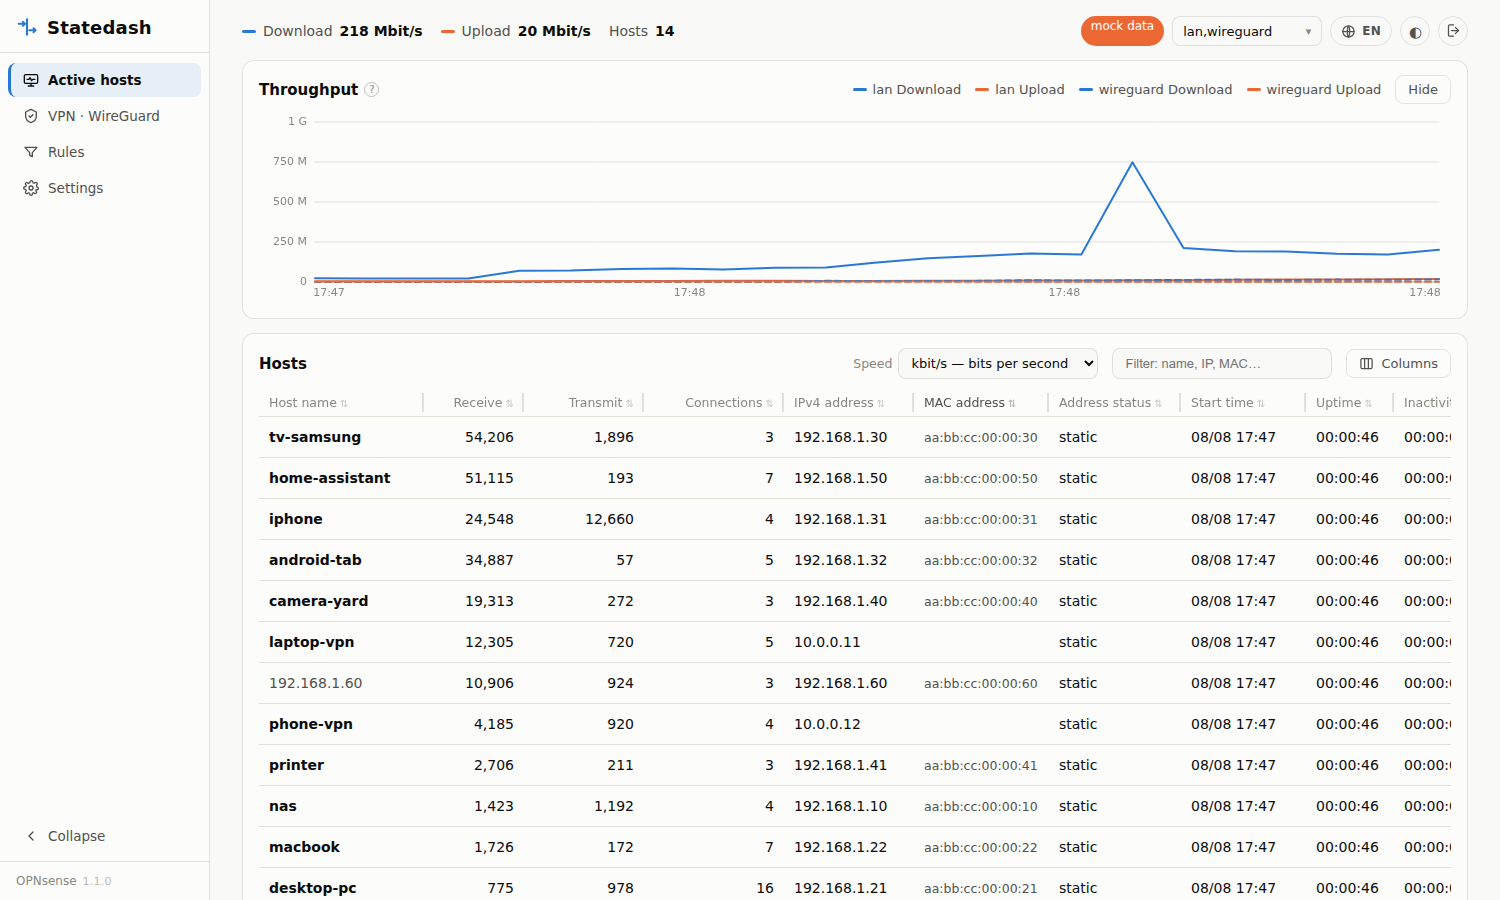
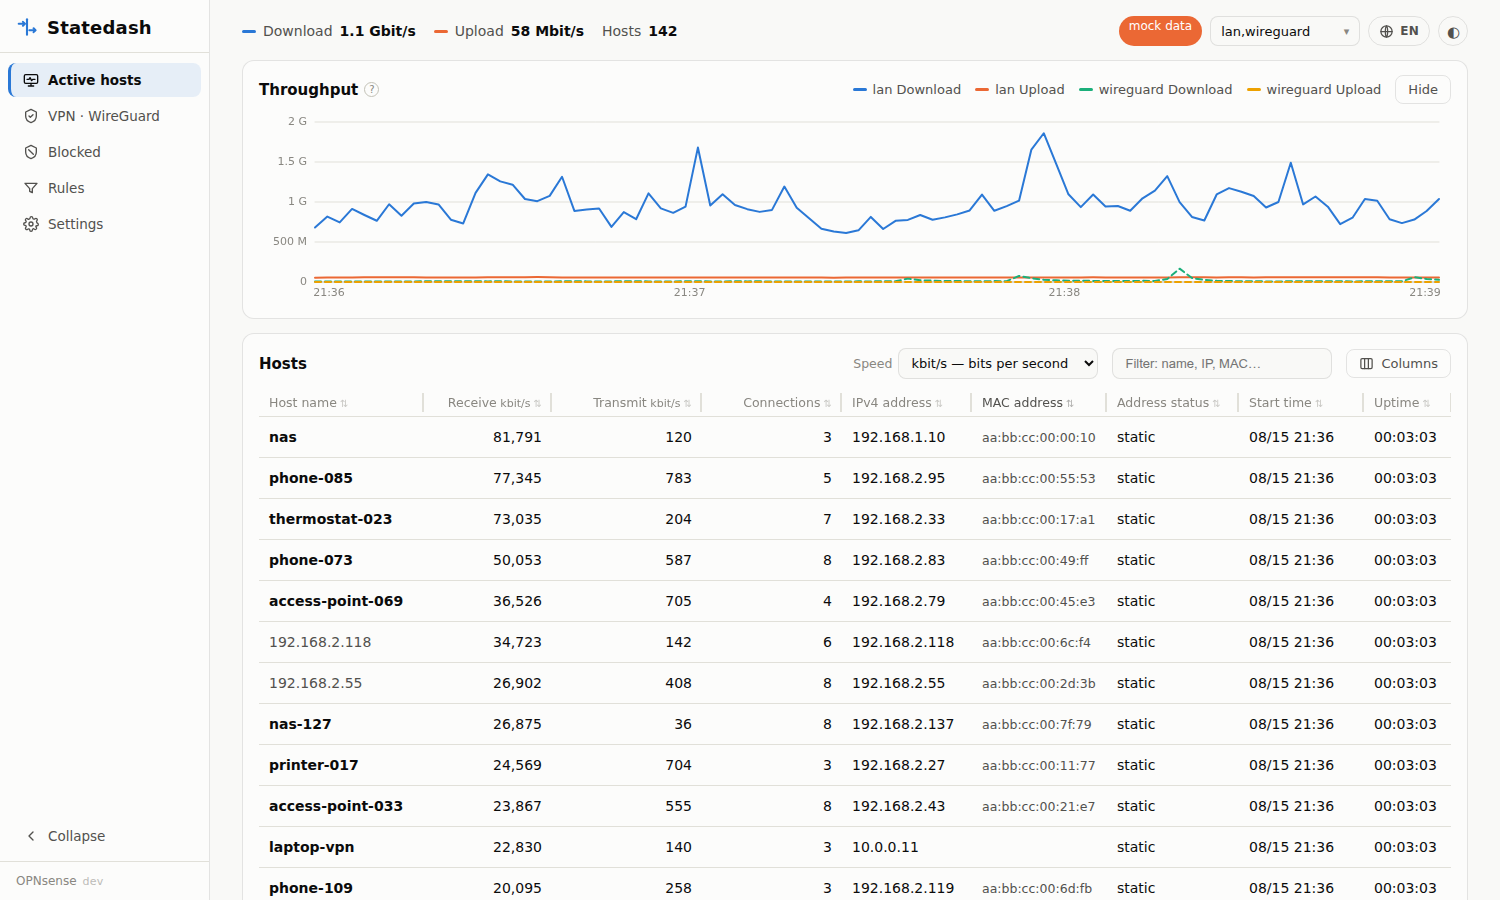
Add a demonstration mode and let the mock stand in for a network
DEMO=1 makes an instance read-only: everything is visible, nothing on the
server can be changed. It exists because an instance with no password accepts
one from anybody — that is how an owner sets the first one, and on a public
instance it means the first visitor can lock out everyone else. The same flag
closes the shared settings, the credentials and the state-killing actions.
Settings kept in the browser stay usable, since trying them is half the point.

MOCK_HOSTS sizes the invented network. The fixed dozen stays the default; a
demonstration wants a crowd, because paging and the spread on the chart only
show up once there is one.

The mock now serves a firewall log, so Blocked works without a firewall — the
rows differ in the fields the classifier actually reads rather than in a label.
Its traffic no longer climbs to the ceiling either: the walk was multiplicative
with bursts and nothing to bring it back, so every host ended up pinned at the
maximum and the totals read in gigabits. Rates are pulled towards each host's
own base now.

Screenshots reshot for hosts and connections, and added for Blocked, which had
been described since 1.3.0 without a picture.

Release 1.6.0.

diff --git a/backend/static/app.js b/backend/static/app.js
@@ -48,6 +48,8 @@ const I18N = {
     "nav.hosts": "Активные хосты",
     "nav.settings": "Настройки",
     "set.access": "Доступ",
+    "demo.note": "Витрина: настройки видны, но менять их нельзя — они общие для всех, кто сейчас смотрит. Тема, язык и единицы измерения ваши личные и работают.",
+    "err.demo_read_only": "Витрина работает только на чтение",
     "set.listen": "Веб-интерфейс слушает",
     "set.listen.only": "Только эта машина (127.0.0.1)",
     "set.listen.all": "Вся сеть (0.0.0.0)",
@@ -370,6 +372,8 @@ const I18N = {
     "nav.hosts": "Active hosts",
     "nav.settings": "Settings",
     "set.access": "Access",
+    "demo.note": "A demonstration: the settings are visible but cannot be changed — they are shared by everyone looking. Theme, language and units are yours alone and do work.",
+    "err.demo_read_only": "The demonstration is read-only",
     "set.listen": "Web interface listens on",
     "set.listen.only": "This machine only (127.0.0.1)",
     "set.listen.all": "Whole network (0.0.0.0)",
@@ -1153,6 +1157,7 @@ async function poll() {
     state.firewallIps = new Set(data.firewall_ips || []);
     $("#poll-int").textContent = String(data.poll_seconds || 2);
     $("#mock-badge").hidden = !data.mock;
+    if (data.demo && !state.demo) { state.demo = true; applyDemoMode(); }
     const ver = $("#side-version");
     if (ver && data.version && ver.textContent !== data.version) {
       ver.textContent = data.version;
@@ -1281,6 +1286,34 @@ function updateSortIndicators() {
     const active = th.dataset.sort === state.sort.key;
     th.classList.toggle("sorted", active);
     if (active) th.dataset.dir = state.sort.dir; else delete th.dataset.dir;
+  }
+}
+
+/* ---------- public demonstration ---------- */
+
+// Settings that live on the server are shared by everyone looking at a public
+// instance, so they are shown but locked. The ones kept in the browser — theme,
+// language, units, column layout — belong to the visitor and stay usable, which
+// is half of what there is to try out.
+const DEMO_LOCKED = [
+  "set-ifaces-btn", "set-poll", "set-states", "set-enrich", "set-history",
+  "set-spark", "set-idle", "set-connlimit", "set-swap", "set-save", "set-defaults",
+  "set-reset-all", "set-pw-current", "set-pw-new", "set-pw-save", "set-pw-off",
+  "set-listen-select", "set-url", "set-tls", "set-key", "set-secret", "set-cred-save",
+];
+
+function applyDemoMode() {
+  document.body.classList.add("demo");
+  for (const id of DEMO_LOCKED) {
+    const el = document.getElementById(id);
+    if (el) el.disabled = true;
+  }
+  const view = $("#view-settings");
+  if (view && !$("#demo-note")) {
+    const note = Object.assign(document.createElement("p"), {
+      id: "demo-note", className: "demo-note", textContent: t("demo.note"),
+    });
+    view.prepend(note);
   }
 }
 

diff --git a/backend/static/style.css b/backend/static/style.css
@@ -924,3 +924,11 @@ tbody tr[data-flip] { will-change: transform; }
 @media (prefers-reduced-motion: reduce) {
   tbody tr.host-row, .conn-table tbody tr { transition: none; }
 }
+
+/* the notice at the top of Settings on a public demonstration */
+.demo-note {
+  margin: 0 0 16px; padding: 10px 14px; border-radius: 8px;
+  background: var(--hover); color: var(--text-muted);
+  border-left: 3px solid var(--accent); font-size: 13px; line-height: 1.5;
+}
+body.demo #view-settings :disabled { opacity: .6; }

diff --git a/backend/app/mock.py b/backend/app/mock.py
@@ -4,6 +4,8 @@ from __future__ import annotations
 import random
 import time
 
+from . import config
+
 _HOSTS = [
     ("192.168.1.10", "nas", "aa:bb:cc:00:00:10"),
     ("192.168.1.21", "desktop-pc", "aa:bb:cc:00:00:21"),
@@ -19,6 +21,18 @@ _HOSTS = [
     ("10.0.0.12", "phone-vpn", ""),
 ]
 
+# A demonstration wants a crowd: paging and the spread on the chart only show
+# up once there are more than a dozen devices. The fixed set above stays the
+# default, so the ordinary mock is unchanged.
+_KINDS = ["laptop", "phone", "tablet", "camera", "tv", "printer", "sensor",
+          "nas", "workstation", "access-point", "voip", "thermostat"]
+for _i in range(max(config.MOCK_HOSTS - len(_HOSTS), 0)):
+    _HOSTS.append((
+        f"192.168.{2 + _i // 250}.{10 + _i % 250}",
+        "" if _i % 9 == 0 else f"{_KINDS[_i % len(_KINDS)]}-{_i:03d}",
+        f"aa:bb:cc:{(_i >> 8) & 255:02x}:{_i & 255:02x}:{(_i * 7) & 255:02x}",
+    ))
+
 _REMOTES = [
     ("142.250.74.78", 443, "tcp"),
     ("104.16.132.229", 443, "tcp"),
@@ -32,8 +46,9 @@ _REMOTES = [
 
 class MockClient:
     def __init__(self) -> None:
-        # random walk: every host has its own "base" rate
-        self._levels = {ip: [random.uniform(1e4, 5e6), random.uniform(1e4, 8e5)] for ip, _, _ in _HOSTS}
+        # random walk around a base rate that is each host's own
+        self._base = {ip: [random.uniform(1e4, 5e6), random.uniform(1e4, 8e5)] for ip, _, _ in _HOSTS}
+        self._levels = {ip: list(rates) for ip, rates in self._base.items()}
         self._cum = {ip: [0.0, 0.0] for ip, _, _ in _HOSTS}
         self._last = time.time()
 
@@ -75,6 +90,51 @@ class MockClient:
     async def kill_states(self, address: str) -> dict:
         return {"result": "ok", "dropped_states": 3}
 
+    # Scanners knocking on ports nobody opened, the ordinary shape of what a
+    # WAN-facing firewall drops all day.
+    _SCANNERS = [
+        ("45.155.205.233", 22, "tcp"), ("185.220.101.34", 3389, "tcp"),
+        ("193.32.162.10", 445, "tcp"), ("89.248.165.74", 23, "tcp"),
+        ("141.98.11.29", 1433, "tcp"), ("80.94.95.115", 8080, "tcp"),
+    ]
+
+    async def firewall_log(self, limit: int = 1000) -> list[dict]:
+        """Blocked packets, in the three shapes the log really produces.
+
+        Attempts arrive from outside as a lone SYN, late packets carry other
+        flags because the state they belonged to has already expired, and the
+        rest is the broadcast and multicast chatter of neighbouring segments.
+        The classifier reads those apart from the record itself, so the mock has
+        to differ in the same fields rather than in a label.
+        """
+        rows = []
+        for _ in range(min(limit, random.randint(40, 90))):
+            kind = random.choices(["attempt", "late", "broadcast"], weights=[3, 2, 5])[0]
+            if kind == "attempt":
+                src, port, proto = random.choice(self._SCANNERS)
+                row = {"src": src, "dst": "203.0.113.7", "dstport": str(port),
+                       "protoname": proto, "tcpflags": "S", "interface": "wan"}
+            elif kind == "late":
+                src, port, proto = random.choice(_REMOTES)
+                row = {"src": src, "dst": "203.0.113.7", "dstport": str(port),
+                       "protoname": proto, "tcpflags": random.choice(["FA", "RA", "A"]),
+                       "interface": "wan"}
+            else:
+                dst, port = random.choice([("192.168.1.255", 137), ("239.255.255.250", 1900),
+                                           ("224.0.0.251", 5353), ("192.168.1.255", 5678)])
+                row = {"src": random.choice(_HOSTS)[0], "dst": dst, "dstport": str(port),
+                       "protoname": "udp", "tcpflags": "", "interface": "lan"}
+            row["action"] = "block"
+            # an explicit rule reports its own label; the implicit default deny
+            # has none, which is what most of the log is
+            row["label"] = ("Block port scanners" if kind == "attempt" and random.random() < 0.5
+                            else "")
+            # the real log gives every line one; the poller uses it to skip the
+            # tail it has already counted
+            row["__digest__"] = f"{random.getrandbits(64):016x}"
+            rows.append(row)
+        return rows
+
     async def interfaces(self) -> list[dict]:
         return [{"name": "lan", "label": "LAN", "device": "vtnet0"},
                 {"name": "wan", "label": "WAN", "device": "em0"},
@@ -96,8 +156,15 @@ class MockClient:
             if iface not in wanted:
                 continue
             level = self._levels[ip]
+            base = self._base[ip]
             for i in (0, 1):
-                level[i] = max(1e3, min(level[i] * random.uniform(0.7, 1.35), 9e7))
+                # A plain multiplicative walk drifts upward without bound: the
+                # bursts below multiply and nothing ever brings them back, so
+                # after a few minutes every host sits pinned at the ceiling and
+                # the totals read in gigabits. Pulling towards the host's own
+                # base rate keeps the numbers looking like a network.
+                pull = (base[i] / level[i]) ** 0.25
+                level[i] = max(1e3, min(level[i] * random.uniform(0.7, 1.35) * pull, 9e7))
             if random.random() < 0.05:  # occasional "download" bursts
                 level[0] *= 10
             self._cum[ip][0] += level[0] / 8 * dt

diff --git a/backend/app/config.py b/backend/app/config.py
@@ -25,11 +25,21 @@ DIRECTION_SWAP = _bool("DIRECTION_SWAP", "0")
 
 # Demo mode: runs without OPNsense
 MOCK = _bool("MOCK", "0")
+# A public demonstration: everything can be looked at, nothing can be changed.
+# Without it the first visitor to an instance with no password set can give it
+# one and lock everybody else out, which is the ordinary first-run flow on your
+# own network and a hazard on a public one.
+DEMO = _bool("DEMO", "0")
 
 # History points kept for the charts: 450 * 2s = 15 minutes
 HISTORY_POINTS = int(os.environ.get("HISTORY_POINTS", "450"))
 # Sparkline points returned per host
 SPARK_POINTS = int(os.environ.get("SPARK_POINTS", "90"))
+
+# Size of the invented network in mock mode. The default is the small fixed
+# set; a larger one is what a demonstration wants, since paging and the spread
+# on the chart only show up once there is a crowd.
+MOCK_HOSTS = int(os.environ.get("MOCK_HOSTS", "0"))
 
 # Where docker publishes the port (shown in the settings page only)
 LISTEN = os.environ.get("LISTEN", "127.0.0.1:8080")

diff --git a/backend/app/main.py b/backend/app/main.py
@@ -66,6 +66,21 @@ async def no_cache_static(request: Request, call_next):
 
 
 @app.middleware("http")
+async def demo_read_only(request: Request, call_next):
+    """On a public demonstration everything is visible and nothing is writable.
+
+    Browsing needs nothing but GET, so refusing the rest costs a visitor nothing
+    and closes the whole surface at once: settings that are shared by everyone
+    looking, the credentials, the state-killing actions, and setting a password
+    on an instance that has none — which anybody could otherwise do, since that
+    is how an owner sets the first one.
+    """
+    if config.DEMO and request.method not in ("GET", "HEAD", "OPTIONS"):
+        return JSONResponse({"detail": "err.demo_read_only"}, status_code=403)
+    return await call_next(request)
+
+
+@app.middleware("http")
 async def require_auth(request: Request, call_next):
     if not auth.enabled() or request.url.path.startswith(OPEN_PATHS):
         return await call_next(request)

diff --git a/backend/app/poller.py b/backend/app/poller.py
@@ -850,6 +850,7 @@ class Tracker:
             "poll_seconds": settings.get("poll_seconds"),
             "ifaces": settings.get("ifaces"),
             "mock": config.MOCK,
+            "demo": config.DEMO,
             "version": config.VERSION,
             "error": self.last_error if now - self.last_poll_ok > settings.get("poll_seconds") * 3 else "",
             "firewall_ips": sorted(self.firewall_ips),

diff --git a/CHANGELOG.md b/CHANGELOG.md
@@ -4,6 +4,36 @@ Notable changes per release. Versions follow [semantic versioning](https://semve
 the major number changes when an existing installation needs manual work to keep
 running.
 
+## 1.6.0 — 2026-08-15
+
+### Added
+
+- **A demonstration mode**, `DEMO=1` (`demo: true` in the chart). Everything is
+  visible and nothing on the server can be changed. It exists because an
+  instance with no password set accepts one from anybody — that is how an owner
+  sets the first one, and on a public instance it means the first visitor can
+  lock out everyone else. Settings kept in the browser — theme, language, units,
+  column layout — stay usable, since trying them is half the point.
+- **`MOCK_HOSTS`** sizes the invented network in mock mode. The fixed set of a
+  dozen devices stays the default; a demonstration wants a crowd, because paging
+  and the spread on the chart only show up once there is one.
+- **The mock serves a firewall log**, so the Blocked section works without a
+  firewall. Attempts arrive from outside as a lone SYN, late packets carry other
+  flags, and the rest is broadcast chatter — the same fields the classifier
+  reads, rather than a label saying which is which.
+
+### Fixed
+
+- **The mock's traffic no longer climbs to the ceiling.** The random walk was
+  multiplicative with occasional bursts and nothing to bring it back, so after a
+  few minutes every host sat pinned at the maximum and the totals read in
+  gigabits. Rates are now pulled towards each host's own base.
+
+### Documentation
+
+- Screenshots reshot for hosts and connections, and added for Blocked, which had
+  been described since 1.3.0 without a picture. Both languages, both themes.
+
 ## 1.5.0 — 2026-08-15
 
 ### Added

diff --git a/README.md b/README.md
@@ -111,6 +111,11 @@ Note that Suricata, if you run it, does not appear here. It inspects packet
 contents rather than headers, runs alongside pf rather than inside it, and
 writes to its own log.
 
+<picture>
+  <source media="(prefers-color-scheme: dark)" srcset="docs/statedash-blocked-dark.png">
+  <img alt="blocked" src="docs/statedash-blocked.png">
+</picture>
+
 ### Settings
 
 - **Interface:** language (Russian/English), theme (system/light/dark), speed
@@ -134,7 +139,9 @@ writes to its own log.
 ### Across the interface
 
 Tables in every section behave the same: sorting, column reordering, resizing,
-showing and hiding columns — all remembered in the browser. There is a dark
+showing and hiding columns — all remembered in the browser. Long lists are
+paged, fifty rows at a time; sorting and filtering run across the whole list
+rather than the page in front of you. There is a dark
 theme, two languages, a mobile layout (the first column sticks during
 horizontal scrolling) and deep links: `?host=IP&tab=conns`,
 `?view=rules|wg|settings`, `?theme=dark`, `?lang=en`.
@@ -205,6 +212,8 @@ survive a rebuild of the container.
 | `DIRECTION_SWAP` | 0 | swap receive and transmit |
 | `HISTORY_POINTS` | 450 | chart history points (450×2s = 15 min) |
 | `SPARK_POINTS` | 90 | sparkline points |
+| `MOCK_HOSTS` | 0 | size of the invented network in mock mode (0 = the fixed set) |
+| `DEMO` | 0 | public demonstration: everything visible, nothing writable |
 
 ## How it works
 

diff --git a/charts/statedash/README.md b/charts/statedash/README.md
@@ -58,6 +58,8 @@ The keys inside must be named `OPNSENSE_KEY` and `OPNSENSE_SECRET`.
 | `polling.names` | `60` | Seconds between name refreshes (ARP, DHCP, reverse DNS). |
 | `directionSwap` | `false` | Set true if download and upload appear swapped. |
 | `mock` | `false` | Generated data instead of a firewall. |
+| `mockHosts` | `0` | Size of the invented network; 0 keeps the small fixed set. |
+| `demo` | `false` | Public demonstration: everything visible, nothing writable. |
 | `persistence.enabled` | `true` | Keep settings.json across restarts. |
 | `persistence.size` | `64Mi` | Claim size; the file is a few kilobytes. |
 | `persistence.existingClaim` | `""` | Use a claim you made yourself. |
